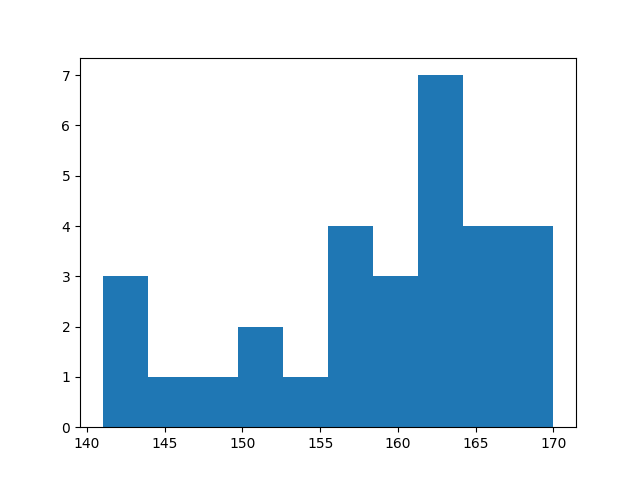
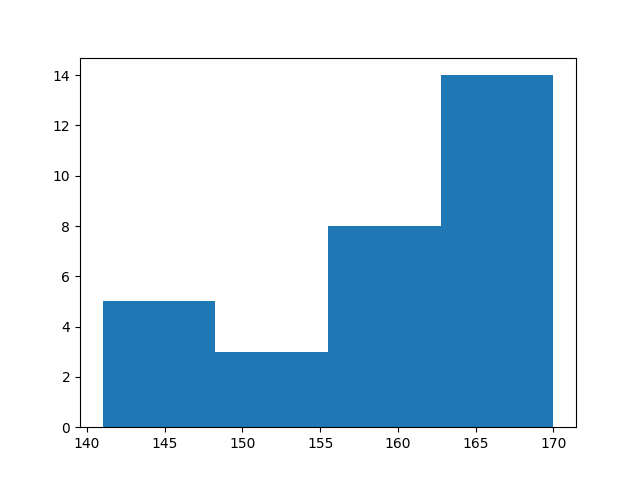
kolmas pilt

diff --git a/kristina_joonised.py b/kristina_joonised.py
@@ -18,6 +18,6 @@ plt.savefig("kristina2.png")
 plt.clf()
 
 lapsed=pd.read_csv("http://www.tlu.ee/~jaagup/andmed/muu/5klass.txt")
-plt.hist(lapsed.pikkus)
+plt.hist(lapsed.pikkus, 4)
 plt.savefig("kristina3.png")
 plt.clf()
